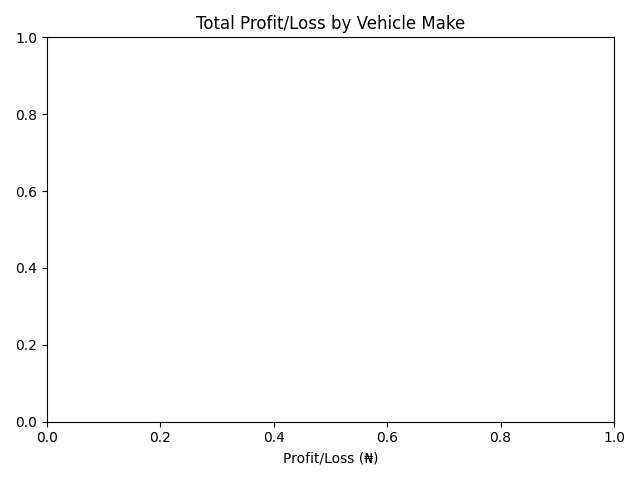
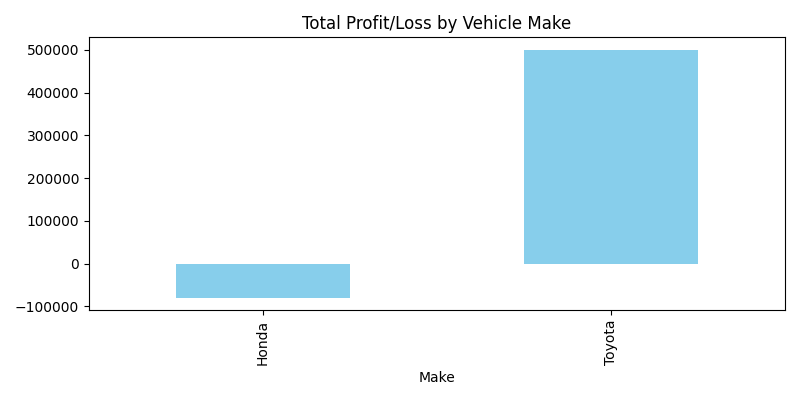
Add files via upload

diff --git a/app.py b/app.py
@@ -1,11 +1,11 @@
-
 import streamlit as st
 import pandas as pd
 import matplotlib.pyplot as plt
-import seaborn as sns
 import os
 
-# Load inventory data
+st.set_page_config(layout="wide")
+
+# Load inventory
 inventory_file = "inventory.csv"
 if os.path.exists(inventory_file):
     df = pd.read_csv(inventory_file)
@@ -13,58 +13,80 @@ else:
     df = pd.DataFrame(columns=[
         "Vehicle ID", "Make", "Model", "Year", "Purchase Price (₦)", "Import Charges (₦)",
         "Repairs (₦)", "Other Expenses (₦)", "Exchange Rate", "Sale Price (₦)",
-        "Profit/Loss (₦)", "Profit/Loss ($)", "Status"
+        "Total Cost (₦)", "Profit/Loss (₦)", "Profit/Loss ($)", "Status"
     ])
 
-# Calculate profit/loss and status if not already present
-if "Profit/Loss (₦)" not in df.columns or df["Profit/Loss (₦)"].isnull().any():
-    df["Total Cost (₦)"] = df["Purchase Price (₦)"] + df["Import Charges (₦)"] + df["Repairs (₦)"] + df["Other Expenses (₦)"]
-    df["Profit/Loss (₦)"] = df["Sale Price (₦)"] - df["Total Cost (₦)"]
-    df["Exchange Rate"] = df.get("Exchange Rate", pd.Series([1000]*len(df)))
-    df["Profit/Loss ($)"] = df["Profit/Loss (₦)"] / df["Exchange Rate"]
-    df["Status"] = df["Profit/Loss (₦)"].apply(lambda x: "Gain" if x > 0 else ("Loss" if x < 0 else "Break-even"))
-
-# Display inventory summary with full width
-st.set_page_config(layout="wide")
+# Logo and title
+if os.path.exists("abode_logo.png"):
+    st.image("abode_logo.png", width=150)
 st.title("Abode Car Business Management App")
-st.subheader("Inventory Summary")
 
-# Apply color coding to Status column
-def highlight_status(val):
-    color = ''
-    if val == 'Gain':
-        color = 'background-color: lightgreen'
-    elif val == 'Loss':
-        color = 'background-color: lightcoral'
-    elif val == 'Break-even':
-        color = 'background-color: lightgray'
-    return color
+# Input form
+st.header("Add Vehicle Information")
+with st.form("vehicle_form"):
+    vehicle_id = st.text_input("Vehicle ID")
+    make = st.text_input("Make")
+    model = st.text_input("Model")
+    year = st.text_input("Year")
+    purchase_price = st.number_input("Purchase Price (₦)", min_value=0)
+    import_charges = st.number_input("Import Charges (₦)", min_value=0)
+    repairs = st.number_input("Repairs (₦)", min_value=0)
+    other_expenses = st.number_input("Other Expenses (₦)", min_value=0)
+    exchange_rate = st.number_input("Exchange Rate", min_value=0.0, value=1000.0)
+    sale_price = st.number_input("Sale Price (₦)", min_value=0)
+    submitted = st.form_submit_button("Add Vehicle")
 
-styled_df = df.style.applymap(highlight_status, subset=["Status"])
+    if submitted:
+        total_cost = purchase_price + import_charges + repairs + other_expenses
+        profit_naira = sale_price - total_cost
+        profit_dollar = profit_naira / exchange_rate if exchange_rate else 0
+        status = "Gain" if profit_naira > 0 else "Loss" if profit_naira < 0 else "Break-even"
+        new_row = {
+            "Vehicle ID": vehicle_id,
+            "Make": make,
+            "Model": model,
+            "Year": year,
+            "Purchase Price (₦)": purchase_price,
+            "Import Charges (₦)": import_charges,
+            "Repairs (₦)": repairs,
+            "Other Expenses (₦)": other_expenses,
+            "Exchange Rate": exchange_rate,
+            "Sale Price (₦)": sale_price,
+            "Total Cost (₦)": total_cost,
+            "Profit/Loss (₦)": profit_naira,
+            "Profit/Loss ($)": profit_dollar,
+            "Status": status
+        }
+        df = pd.concat([df, pd.DataFrame([new_row])], ignore_index=True)
+        df.to_csv(inventory_file, index=False)
+        st.success("Vehicle added successfully!")
+
+# Display inventory
+st.header("Inventory Summary")
+styled_df = df.style.applymap(
+    lambda val: "background-color: lightgreen" if val == "Gain" else
+                "background-color: lightcoral" if val == "Loss" else
+                "background-color: lightgray",
+    subset=["Status"]
+)
 st.dataframe(styled_df, use_container_width=True)
 
-# Generate charts
-st.subheader("Charts by Vehicle Make")
+# Charts
+st.header("Charts by Vehicle Make")
+if not df.empty:
+    fig1, ax1 = plt.subplots()
+    df.groupby("Make")["Profit/Loss (₦)"].sum().plot(kind="bar", ax=ax1, title="Total Profit/Loss by Make")
+    fig1.tight_layout()
+    st.pyplot(fig1)
 
-# Chart 1: Total Profit/Loss by Make
-fig1, ax1 = plt.subplots()
-profit_by_make = df.groupby("Make")["Profit/Loss (₦)"].sum().sort_values()
-sns.barplot(x=profit_by_make.values, y=profit_by_make.index, ax=ax1)
-ax1.set_title("Total Profit/Loss by Vehicle Make")
-ax1.set_xlabel("Profit/Loss (₦)")
-fig1.tight_layout()
-fig1.savefig("profit_by_make.png")
-st.pyplot(fig1)
+    fig2, ax2 = plt.subplots()
+    df["Make"].value_counts().plot(kind="bar", ax=ax2, title="Number of Vehicles by Make")
+    fig2.tight_layout()
+    st.pyplot(fig2)
 
-# Chart 2: Vehicle Count by Make
-fig2, ax2 = plt.subplots()
-vehicle_count = df["Make"].value_counts()
-sns.barplot(x=vehicle_count.values, y=vehicle_count.index, ax=ax2)
-ax2.set_title("Number of Vehicles by Make")
-ax2.set_xlabel("Count")
-fig2.tight_layout()
-fig2.savefig("vehicle_count_by_make.png")
-st.pyplot(fig2)
-
-# Save updated inventory
-df.to_csv("inventory.csv", index=False)
+# Export options
+st.header("Export Report")
+csv_export = df.to_csv(index=False).encode("utf-8")
+df.to_excel("Abode_Inventory_Report.xlsx", index=False)
+st.download_button("Download CSV", csv_export, "Abode_Inventory_Report.csv", "text/csv")
+st.download_button("Download Excel", open("Abode_Inventory_Report.xlsx", "rb").read(), "Abode_Inventory_Report.xlsx", "application/vnd.openxmlformats-officedocument.spreadsheetml.sheet")
